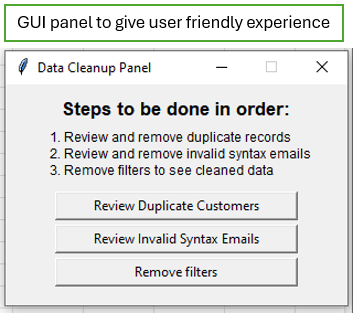
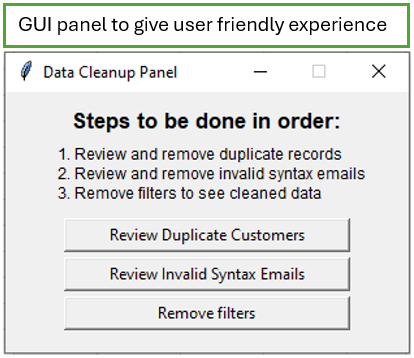
updated readme pictures

Changed region(s): [[0.0, 0.0, 1.0, 0.9937], [0.1219, 0.3123, 0.8837, 0.5678], [0.6094, 0.1987, 0.6399, 0.2271]]

diff --git a/readme.md b/readme.md
@@ -1,7 +1,7 @@
 # Customer Data Cleaner
 This tool can be used to help a business quickly clean a customer or vendor list they have.
 
-![before and after data cleaning.PNG](images/before%20and%20after%20data%20cleaning.PNG)
+![before and after.PNG](images/before%20and%20after.PNG)
 
 # Cleaning
 - removes unnecessary white spaces throughout
@@ -41,10 +41,10 @@ and is able to receive emails.
 - I could also include statistics to show how many records have been cleaned/updates done.
 - The email syntax check doesn't confirm if an email actually exists. It just checks the
 syntax is valid. If the user wants to check if an email exists they could use
-an email verification service. These are usually paid services after basic limits reached.   
+an email verification service. These are usually paid services after free limits are used.   
 
 # Limitations
-- This tool is currently only built Windows users using Excel.
+- This tool is currently only built for Windows users using Excel.
 - This tool is built for Irish users - for example, the post codes are hardcoded to input a
 space after the third character (though this could be easily updated if and when needed for other countries)
 - No fuzzy matching - currently catches exact matches only would be useful to also catch
